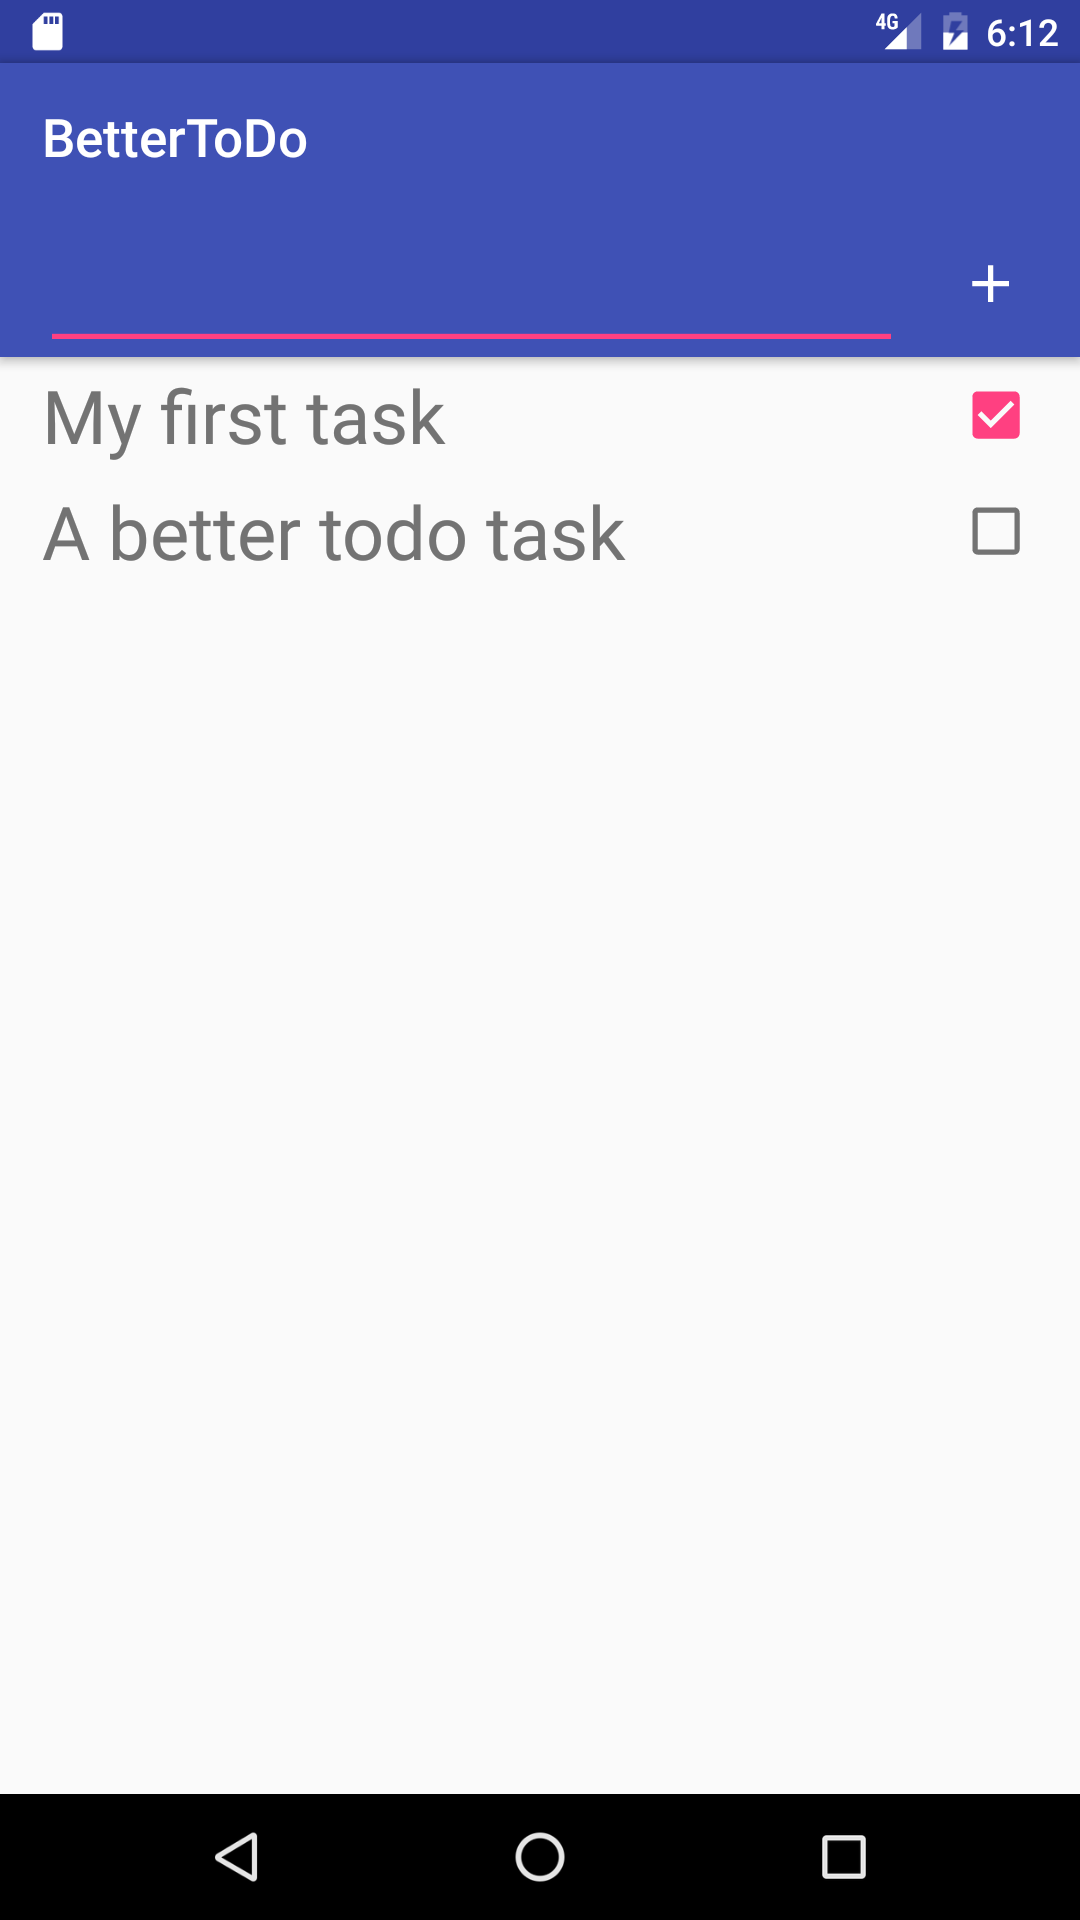
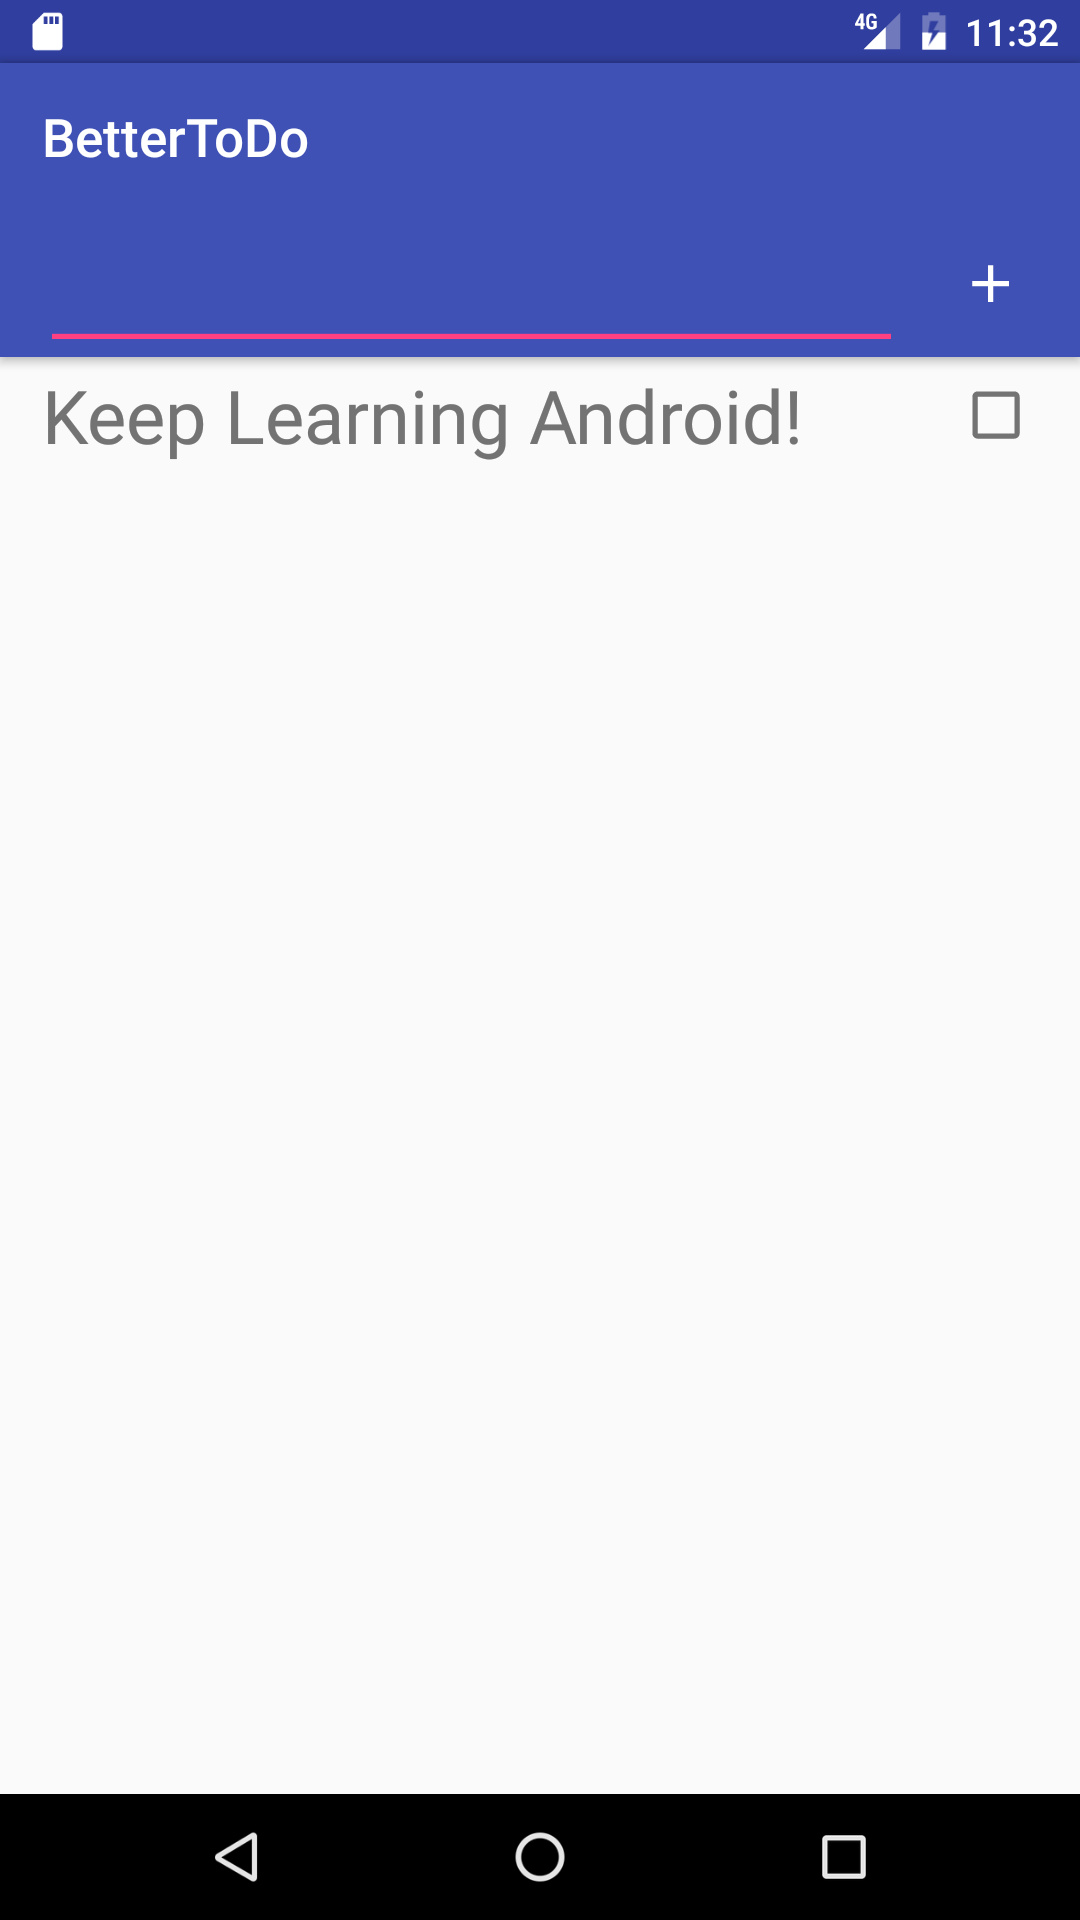
Updated Screenshot

diff --git a/app/src/main/java/com/chscodecamp/android/bettertodo/ListActivity.java b/app/src/main/java/com/chscodecamp/android/bettertodo/ListActivity.java
@@ -30,7 +30,7 @@ public class ListActivity extends AppCompatActivity {
         tasks = TaskManager.getTasks();
         if (tasks.isEmpty()) {
             Task task = new Task();
-            task.setTitle("My first task");
+            task.setTitle("Keep Learning Android!");
             TaskManager.addTask(task);
         }
 
